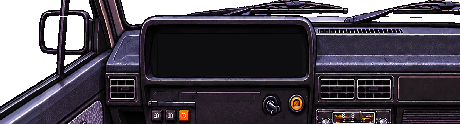
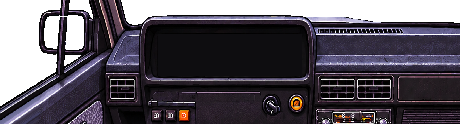
v0.44.0: Jornada LS (Voyage LS 1986) com cabine, quadro verde à noite e capas; sai o Ímola de quatro portas
Claude-Session: https://claude.ai/code/session_01MLD9VR7gkmY4w6a9beZcp6

Changed region(s): [[0.3957, 0.0, 1.0, 0.1935], [0.3348, 0.121, 0.3652, 0.1452]]

diff --git a/tools/ref/voyage_cockpit.py b/tools/ref/voyage_cockpit.py
@@ -5,7 +5,8 @@ cenário pelos vidros):
 - vidros: o cenário é inundado a partir de sementes dentro de cada vidro (para-brisa, janela da porta,
   quebra-vento e os dois lados do vidro do retrovisor); o contorno preto do carro segura. Ilhas escuras
   do cenário (troncos, cerca) são fechadas; acima das palhetas o para-brisa é fechado linha a linha
-  e coluna a coluna (bolsos de cenário presos entre a moldura e um tronco). As palhetas ficam
+  e coluna a coluna (bolsos de cenário presos entre a moldura e um tronco)
+- os limpadores da arte saem (o jogo desenha os dele na base do vidro): o vidro desce até a borda do painel
 - retrovisor interno e haste saem (o jogo desenha o dele)
 - retrovisor externo esquerdo: a arte mostra a moldura inteira; o vidro é cortado em dois pela coluna
   do quebra-vento, que passa na frente. Uma fenda de 1 linha na coluna liga os dois lados (assim o jogo
@@ -51,7 +52,11 @@ SPOKES = [
 ]
 # sementes de cada vidro na arte sem volante (x, y)
 SEEDS = [(840, 300), (30, 200), (125, 300), (40, 400), (110, 400), (100, 472)]
-WIPER_Y = 316                   # daqui para baixo ficam as palhetas: o para-brisa não é fechado por linhas
+WIPER_Y = 316                   # daqui para baixo ficam as palhetas da arte
+# borda de cima do painel (x, y), da coluna esquerda à direita, medida onde as palhetas não a cobrem
+DASH_TOP = [(250, 344), (265, 382), (280, 388), (295, 387), (310, 381), (325, 369), (340, 365), (420, 363), (700, 362), (790, 366),
+            (900, 367), (985, 379), (1200, 381), (1300, 385), (1375, 388), (1390, 384), (1405, 362)]
+WIPER_BASE = (896, 1010, 384)   # eixo da haste direita por cima da borda do painel: x0, x1, y de baixo
 IMIRROR = (690, 0, 990, 200)    # retrovisor interno e haste
 SLIT_Y = 366                    # linha da fenda na coluna do quebra-vento (alto do vidro do retrovisor)
 LP = 150                        # folga construída à esquerda (px da arte)
@@ -92,6 +97,10 @@ def glass_mask(nw):
     for _ in range(3):
         near = cv2.dilate(g.astype(np.uint8), np.ones((3, 3), np.uint8)) > 0
         g |= near & ~g & (g_ > r_ + 10) & (g_ + b_ > 30)
+    # limpadores da arte saem (o jogo desenha os dele): o vidro desce até a borda do painel, medida na arte
+    px, py = zip(*DASH_TOP)
+    top = np.interp(np.arange(W), px, py)
+    g |= (xx >= px[0]) & (xx <= px[-1]) & (yy >= WIPER_Y - 40) & (yy < top[np.clip(xx, 0, W - 1)])
     # ilhas escuras do cenário dentro dos vidros (o que não se liga ao carro)
     n, lab, st, _ = cv2.connectedComponentsWithStats((~g).astype(np.uint8), connectivity=4)
     for i in range(1, n):
@@ -116,6 +125,15 @@ def clean(nw):
     r, g, b = reg[..., 0].astype(int), reg[..., 1].astype(int), reg[..., 2].astype(int)
     ring = (r > 150) & (g > 120) & (b < 110)
     reg[ring] = (9, 8, 12)
+    # o eixo da haste direita cobria a borda do painel: a faixa clara da borda continua ali (colunas à esquerda)
+    px, py = zip(*DASH_TOP)
+    x0, x1, yb = WIPER_BASE
+    for x in range(x0, x1):
+        y0 = int(np.interp(x, px, py))
+        sx = x0 - 6 - ((x - x0) % 60)
+        sy0 = int(np.interp(sx, px, py))
+        n = yb - y0
+        out[y0:yb, x] = nw[np.clip(sy0 + np.arange(n), 0, yb - 1), sx]
     return out
 
 

diff --git a/CLAUDE.md b/CLAUDE.md
@@ -6,7 +6,9 @@
 
 ## Escopo
 - **Só mexer nos carros que o Victor já mandou atualizados**: Toro V12 (Diablo) e a viatura SV,
-  Fúria TR, Fúria F4, Kaze NX, Serpe V10, Gaúcho GTI, Ímola S/R (hatch), Ímola Classic SE (sedã) e Ímola Classic Coupé.
+  Fúria TR, Fúria F4, Kaze NX, Serpe V10, Gaúcho GTI, Ímola S/R (hatch), Ímola Classic Coupé e Jornada LS
+  (Voyage LS 1986: voyage_sprites.py, voyage_cockpit.py, voyage_gauges.py, voyage_photos.py). O Ímola de
+  quatro portas saiu do jogo (a cabine do cupê continua nos arquivos br-monzasedan-*).
   Os demais (Toro LP5, 959, ZR1, Patrol, Vectra, Kadett, Corsa, Uno, Passat, Pumas) ficam como estão
   até a arte nova chegar, para não haver retrabalho: nada de retoques, retrovisores ou quadros neles.
   O LP5 tem fotos de revista, mas o carro ainda não foi atualizado. Na dúvida, perguntar.
@@ -66,6 +68,9 @@
   formato vem da foto. **Olhar o centro do ponteiro na foto ampliada**: na Fúria TR a barra atravessa o
   eixo (rabicho comprido, sem miolo); no GTI e no Ímola há um disco chapado EMBAIXO e a barra passa por
   cima dele (`hubUnder`); só usar miolo em cima (bola com brilho) quando a foto mostrar uma capa.
+- Limpadores de para-brisa desenhados na arte SAEM (para-brisa limpo): os limpadores são do jogo, na chuva.
+- Quadro aceso à noite (Jornada LS): fundo verde-garrafa escuro e pouco saturado, números e marcações
+  claros por cima; nunca verde vivo chapado (apaga os algarismos). Conferir a leitura em tamanho de celular.
 - Luzes-espia nunca ficam acesas na arte: desenhar apagadas e acender no jogo na hora certa (óleo,
   freio de mão, pisca). Faixas de cor seguem a lógica do ponteiro (econômetro: verde onde ele fica com
   o pé leve).
